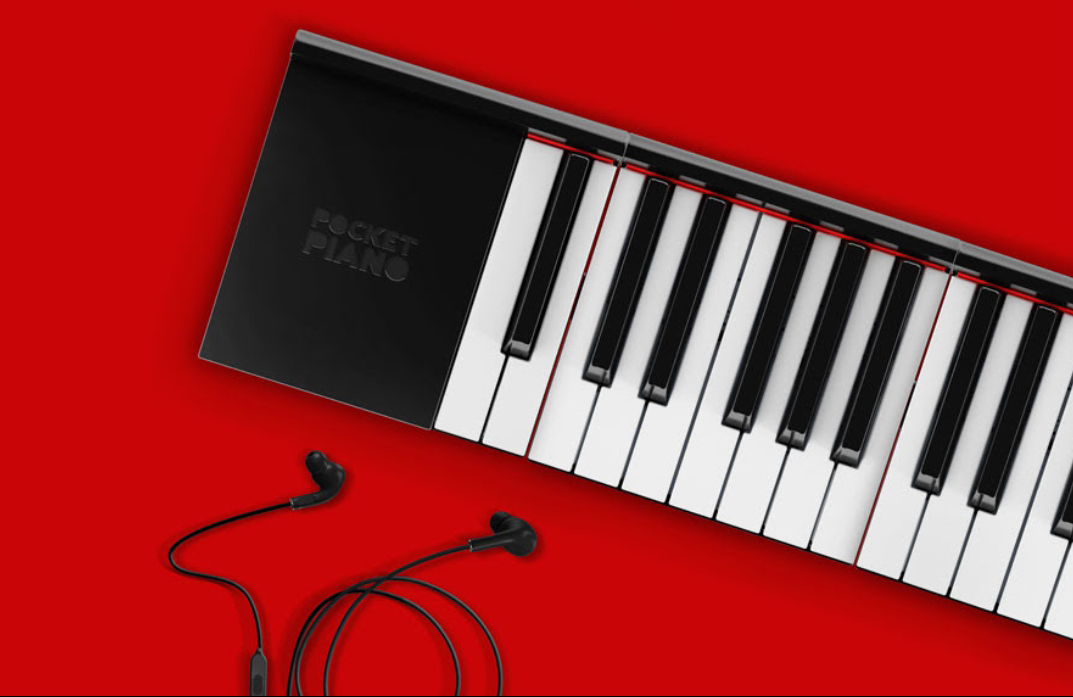
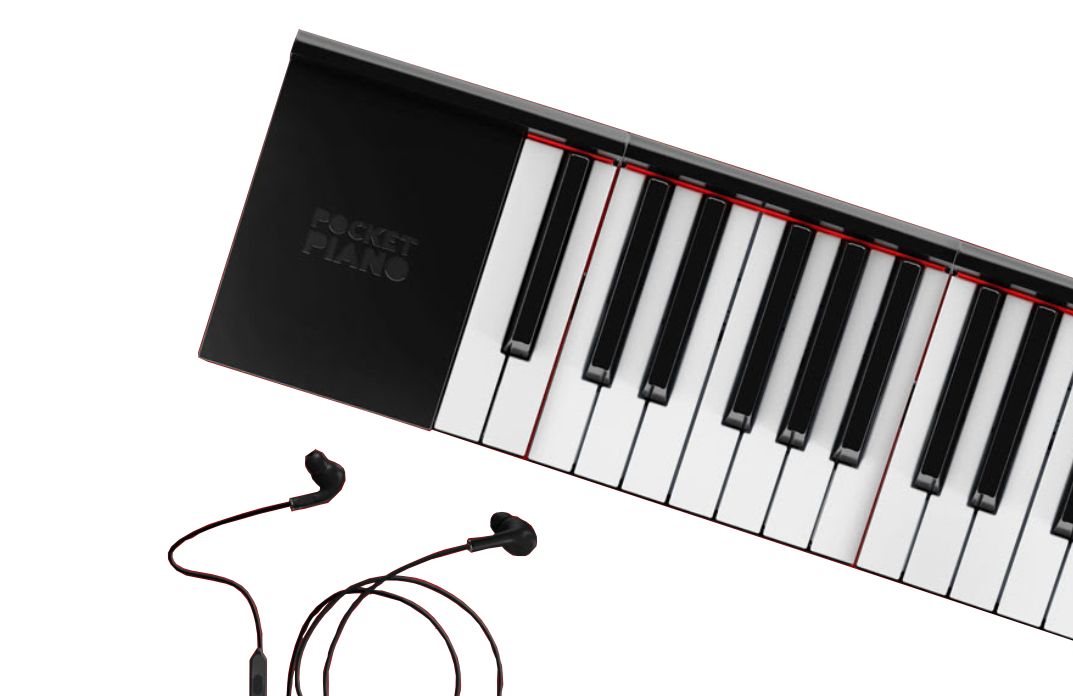
update color navigation

diff --git a/App/containers/PianoStatus/index.js b/App/containers/PianoStatus/index.js
@@ -61,7 +61,7 @@ const PianoStatusScreen = ({ navigation }) => {
                             <IconButton
                                 icon="minus"
                                 color={Colors.grey}
-                                size={scale(22)}
+                                size={scale(18)}
                                 onPress={() => console.log('Pressed')}
                                 style={styles.outlineCircle}
                             />
@@ -69,7 +69,7 @@ const PianoStatusScreen = ({ navigation }) => {
                             <IconButton
                                 icon="plus"
                                 color={Colors.grey}
-                                size={scale(22)}
+                                size={scale(18)}
                                 onPress={() => console.log('Pressed')}
                                 style={styles.outlineCircle}
                             />
@@ -106,7 +106,7 @@ const PianoStatusScreen = ({ navigation }) => {
             <View style={styles.vspace}/>
             <DeviceCard            
                 onLinkPress={() => {                        
-                    navigation.navigate("Home");
+                    navigation.navigate("Search");
                 }}
             >
                 <BatteryPiano

diff --git a/App/containers/Search/index.js b/App/containers/Search/index.js
@@ -29,7 +29,7 @@ const SearchScreen = ({ navigation }) => {
                     title='VINCULAR PIANO'
                     rightIcon={Images.ic_key}
                     onPress={() => {
-                        navigation.navigate("Link");
+                        //navigation.navigate("Link");
                     }}
                 />
                 <View style={styles.vspace}/>
@@ -37,7 +37,7 @@ const SearchScreen = ({ navigation }) => {
                     title='VINCULAR PEDAL'
                     rightIcon={Images.ic_pedal}
                     onPress={() => {
-                        navigation.navigate("PianoStatus");                        
+                        //navigation.navigate("PianoStatus");                        
                     }}
                 />
             </View>

diff --git a/App/containers/PianoStatus/styles.js b/App/containers/PianoStatus/styles.js
@@ -43,12 +43,15 @@ export const styles = StyleSheet.create({
     flexDirection: 'row',
   },
   volumeWrapper: {
-    marginTop: scale(2)
+    marginTop: scale(8),
+    alignItems: 'center',
+    justifyContent: 'center'
   },
   outlineCircle: {
     borderRadius: 50,
     borderWidth: 2,
-    borderColor: Colors.black
+    borderColor: Colors.black,
+    marginHorizontal: scale(8)
   },
   switchWrapper: {
     flex: 1,

diff --git a/App/utils/Colors.js b/App/utils/Colors.js
@@ -1,5 +1,5 @@
 export default {
-  primaryColor: '#c90507',
+  primaryColor: '#990B3B',
   secondaryColor: '#B0C7EF',
 
   mintColor: '#A6D1BF',
